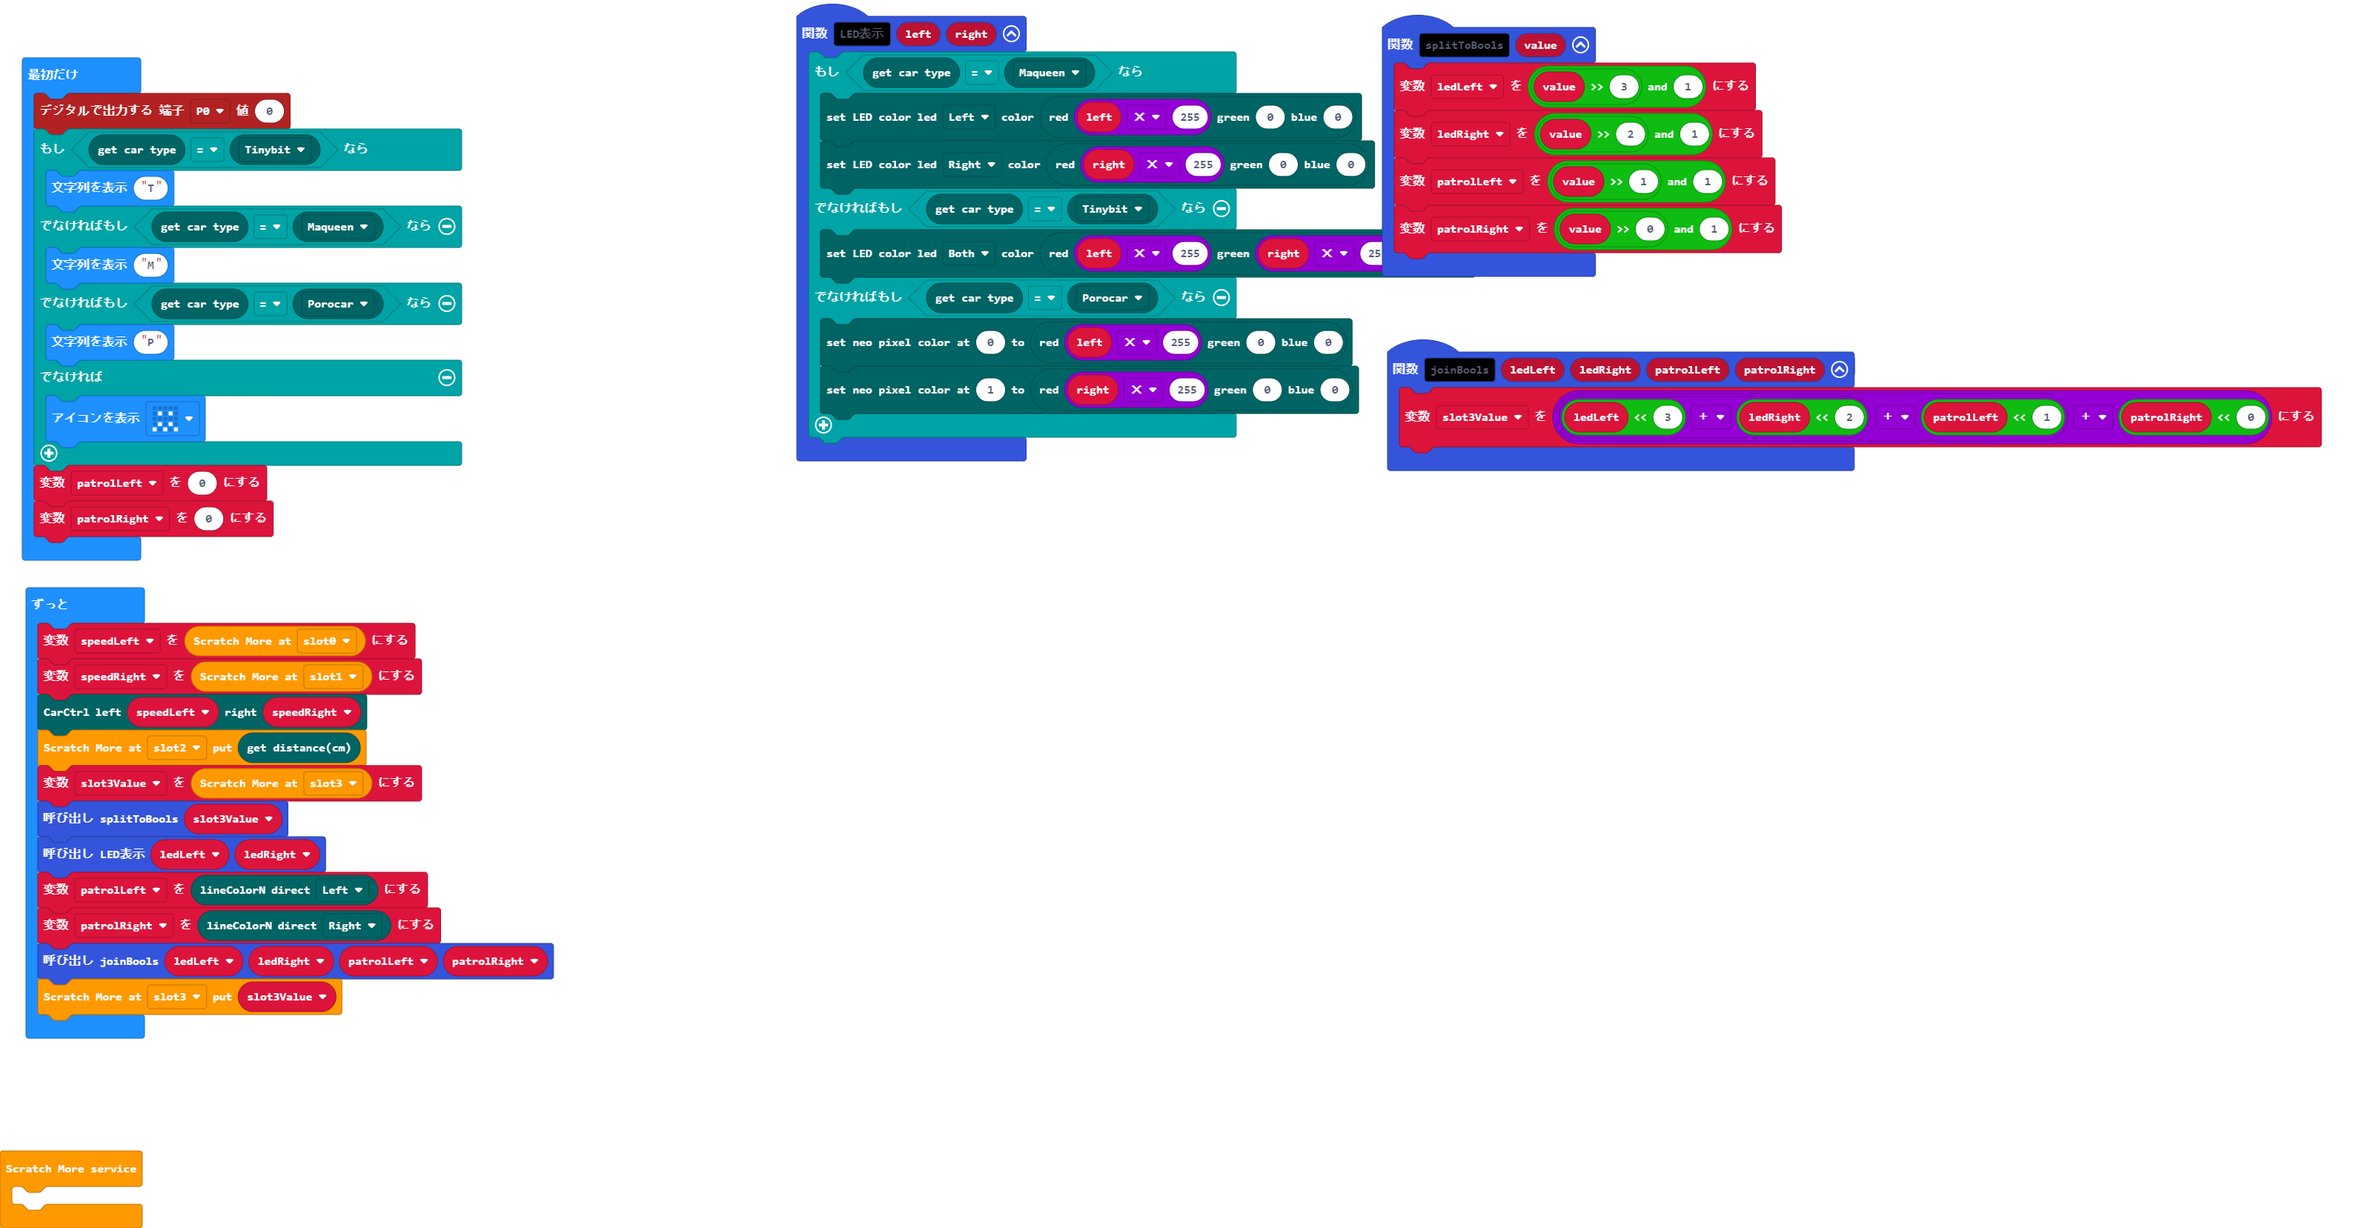
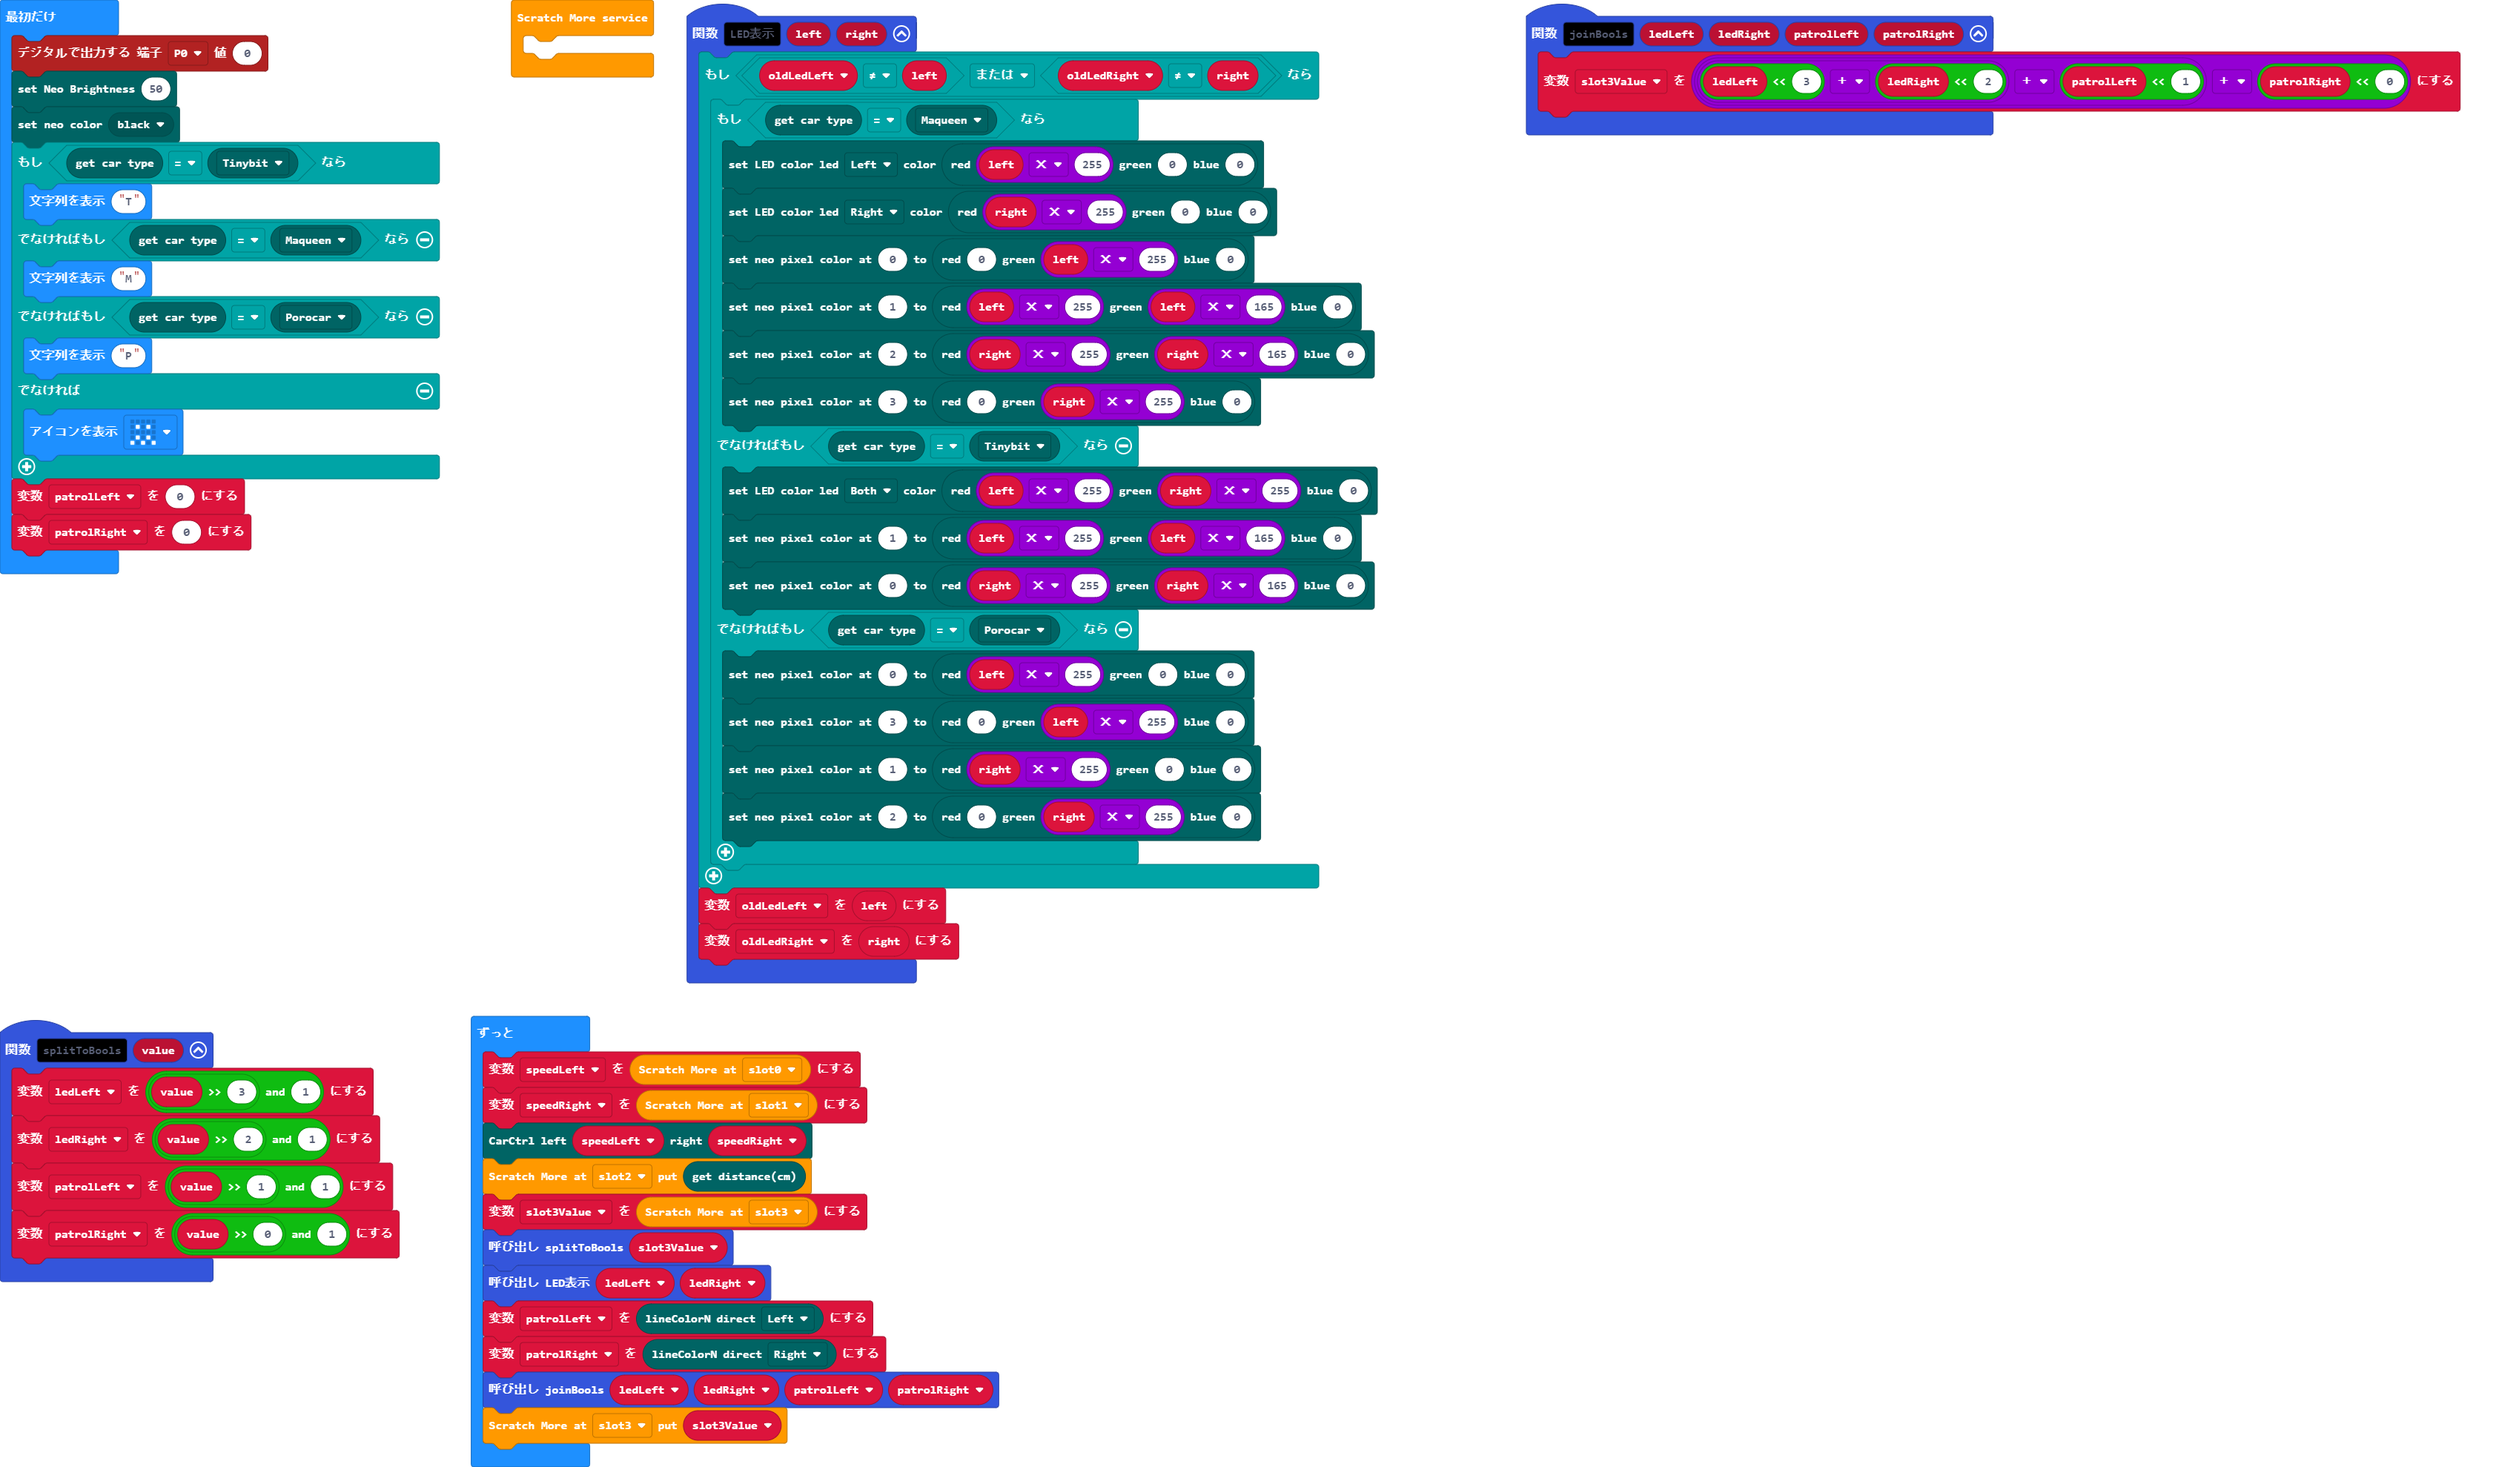
更新 main.blocks, main.ts

diff --git a/main.ts b/main.ts
@@ -2,15 +2,27 @@ ScratchMore.startService(function () {
 	
 })
 function LED表示 (left: number, right: number) {
-    if (carcotrol.getCarType() == carcotrol.car(carType.Maqueen)) {
-        carcotrol.setLED(Position.Left, carcotrol.rgb(left * 255, 0, 0))
-        carcotrol.setLED(Position.Right, carcotrol.rgb(right * 255, 0, 0))
-    } else if (carcotrol.getCarType() == carcotrol.car(carType.Tinybit)) {
-        carcotrol.setLED(Position.Both, carcotrol.rgb(left * 255, right * 255, 0))
-    } else if (carcotrol.getCarType() == carcotrol.car(carType.Porocar)) {
-        carcotrol.setNeoPixelColor(0, carcotrol.rgb(left * 255, 0, 0))
-        carcotrol.setNeoPixelColor(1, carcotrol.rgb(right * 255, 0, 0))
+    if (oldLedLeft != left || oldLedRight != right) {
+        if (carcotrol.getCarType() == carcotrol.car(carType.Maqueen)) {
+            carcotrol.setLED(Position.Left, carcotrol.rgb(left * 255, 0, 0))
+            carcotrol.setLED(Position.Right, carcotrol.rgb(right * 255, 0, 0))
+            carcotrol.setNeoPixelColor(0, carcotrol.rgb(0, left * 255, 0))
+            carcotrol.setNeoPixelColor(1, carcotrol.rgb(left * 255, left * 165, 0))
+            carcotrol.setNeoPixelColor(2, carcotrol.rgb(right * 255, right * 165, 0))
+            carcotrol.setNeoPixelColor(3, carcotrol.rgb(0, right * 255, 0))
+        } else if (carcotrol.getCarType() == carcotrol.car(carType.Tinybit)) {
+            carcotrol.setLED(Position.Both, carcotrol.rgb(left * 255, right * 255, 0))
+            carcotrol.setNeoPixelColor(1, carcotrol.rgb(left * 255, left * 165, 0))
+            carcotrol.setNeoPixelColor(0, carcotrol.rgb(right * 255, right * 165, 0))
+        } else if (carcotrol.getCarType() == carcotrol.car(carType.Porocar)) {
+            carcotrol.setNeoPixelColor(0, carcotrol.rgb(left * 255, 0, 0))
+            carcotrol.setNeoPixelColor(3, carcotrol.rgb(0, left * 255, 0))
+            carcotrol.setNeoPixelColor(1, carcotrol.rgb(right * 255, 0, 0))
+            carcotrol.setNeoPixelColor(2, carcotrol.rgb(0, right * 255, 0))
+        }
     }
+    oldLedLeft = left
+    oldLedRight = right
 }
 function joinBools (ledLeft: number, ledRight: number, patrolLeft: number, patrolRight: number) {
     slot3Value = bit.lshift(ledLeft, 3) + bit.lshift(ledRight, 2) + bit.lshift(patrolLeft, 1) + bit.lshift(patrolRight, 0)
@@ -26,9 +38,12 @@ let speedLeft = 0
 let ledRight = 0
 let ledLeft = 0
 let slot3Value = 0
+let oldLedRight = 0
+let oldLedLeft = 0
 let patrolRight = 0
 let patrolLeft = 0
 pins.digitalWritePin(DigitalPin.P0, 0)
+carcotrol.setNeoBrightness(50)
 carcotrol.setNeoColor(carcotrol.colors(RGBColors.Black))
 if (carcotrol.getCarType() == carcotrol.car(carType.Tinybit)) {
     basic.showString("T")
